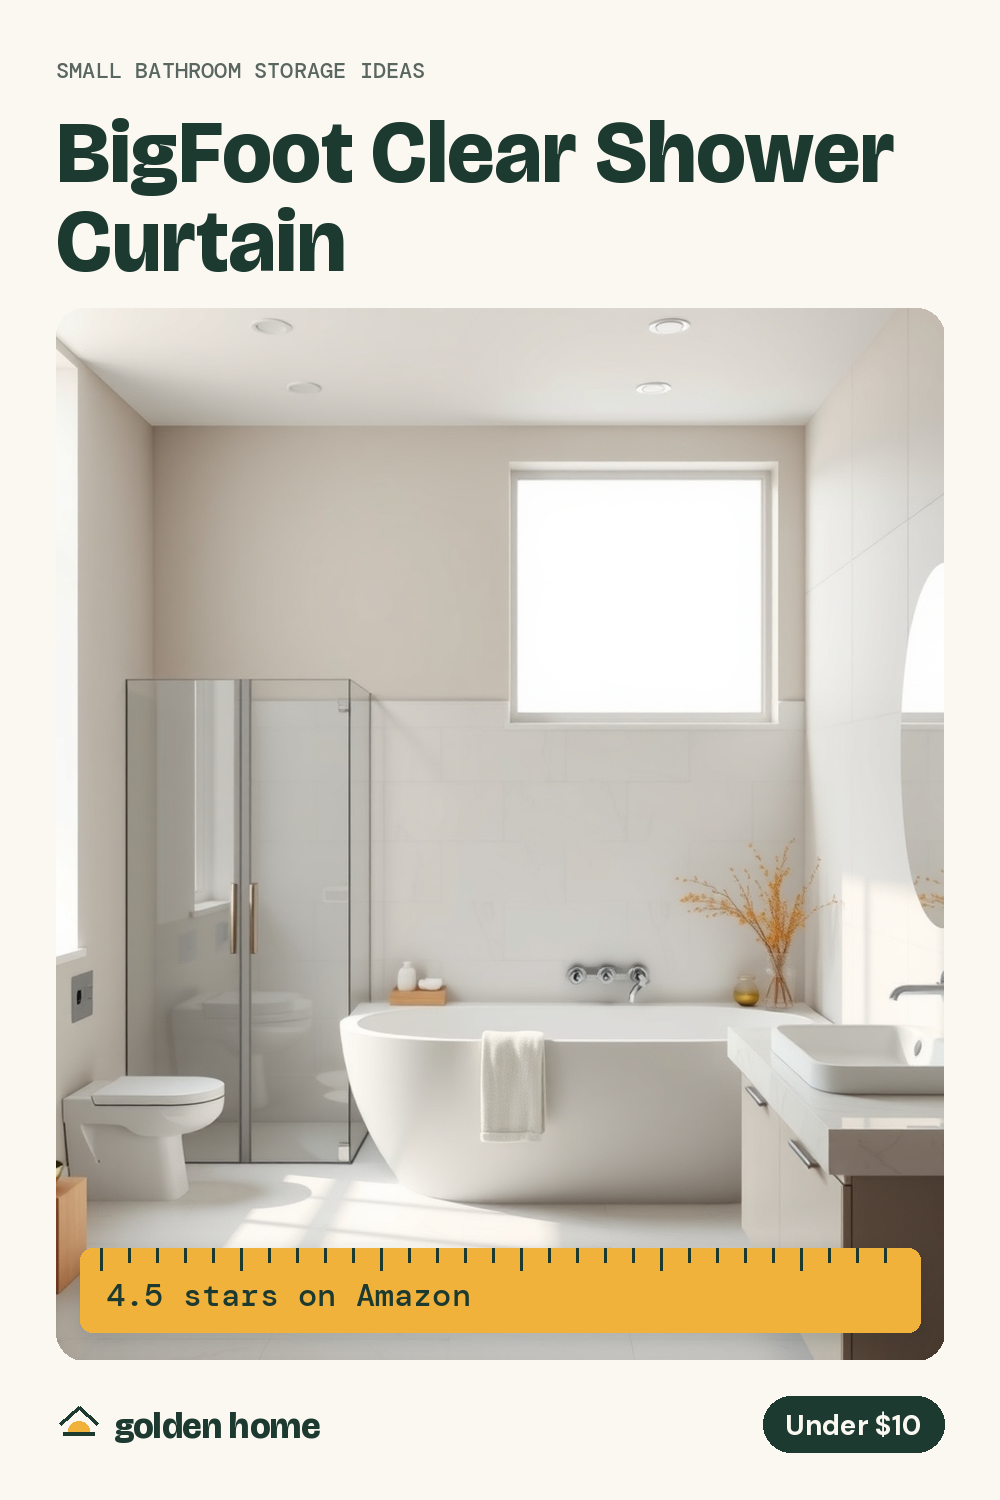
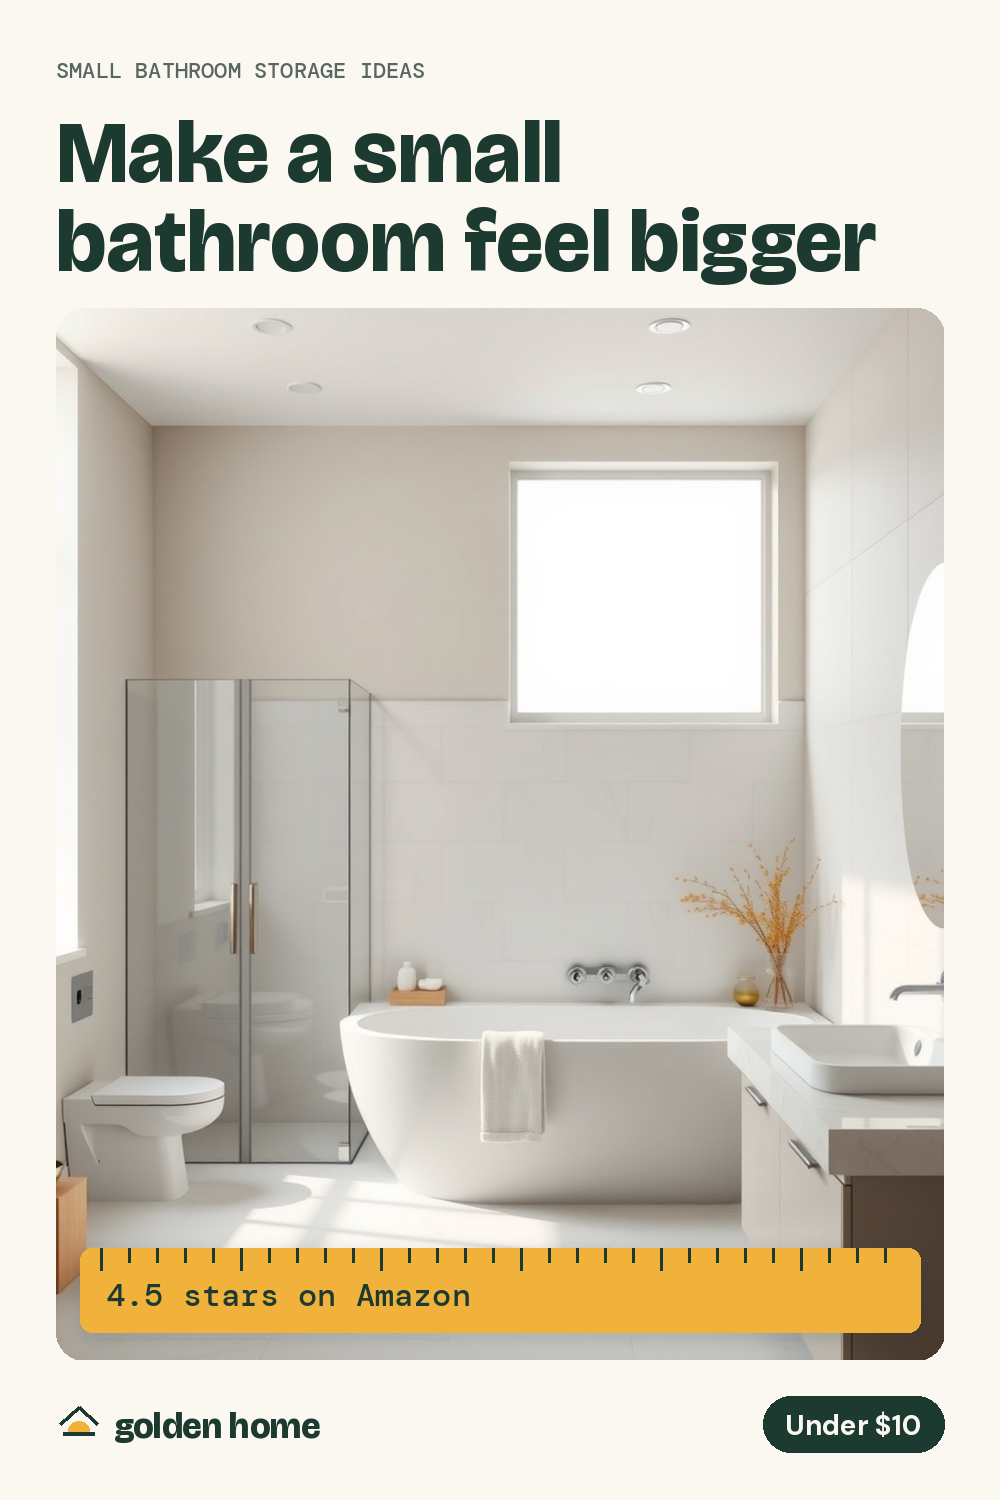
pins: log template-copy fallback, always write a problem-led headline without a hook; generator log outside the repo
Rebuilt today's shower-curtain pin with Claude copy; held the desk-lamp pin.

Changed region(s): [[0.062, 0.0613, 0.899, 0.2147], [0.527, 0.0613, 0.558, 0.092]]

diff --git a/automation/pinterest_pipeline.py b/automation/pinterest_pipeline.py
@@ -1157,7 +1157,10 @@ def main() -> int:
                         for p in queue):
             continue          # already pinned THIS drop; don't repeat it
         board, board_q = GIFT_BOARD if gift else board_for(entry)
-        copy = claude_copy(entry, board) or template_copy(entry, board)
+        copy = claude_copy(entry, board)
+        if not copy:   # say so: a silent template fallback shipped brand-name pins 2026-10-20
+            print(f"  [copy] {asin} Claude copy unavailable — template copy")
+            copy = template_copy(entry, board)
         # Do not WRITE an angle that is out of season. The product is usually fine —
         # floating shelves, laundry hampers and storage carts sell all year — but
         # "Floating Shelves for Bedside & Dorm Room" is aimed at a search that
@@ -1251,7 +1254,9 @@ def main() -> int:
         import brand_ab
         variant = brand_ab.variant_for(img_path.stem)
         headline = scrub_prices(copy.get("overlay_hook") or _short_name(entry.get("product_name", "")))
-        if re.search(r"ideas:\s*\w+$", headline, re.I) or len(headline.split()) < 3:
+        if (not copy.get("overlay_hook") or re.search(r"ideas:\s*\w+$", headline, re.I)
+                or len(headline.split()) < 3):
+            # No hook = template copy, and the fallback is the product name with its brand.
             # The search-phrase fallback reads as a label ("Home Organization Ideas: Basket").
             try:
                 from _claude_api import call_claude
